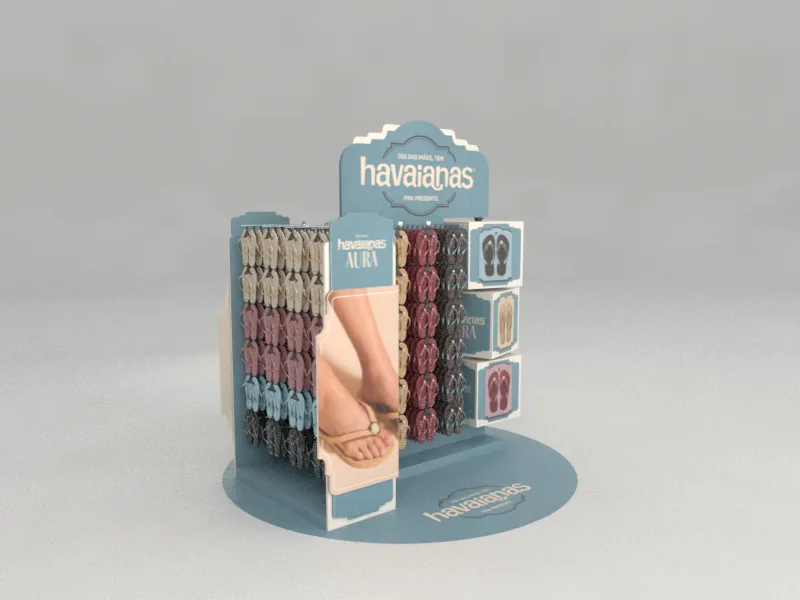
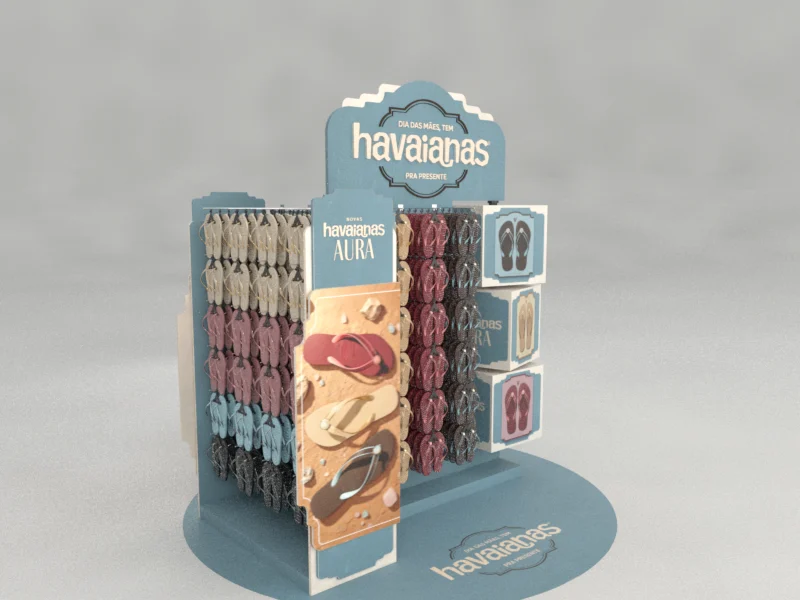
HAV009 R05: ilha nova (frontal e 3/4)

Changed region(s): [[0.2188, 0.12, 0.7812, 1.0]]

diff --git a/havaianas-aura-maes-75lab/index.html b/havaianas-aura-maes-75lab/index.html
@@ -9,7 +9,7 @@
 <meta name="robots" content="noindex">
 <link rel="preconnect" href="https://fonts.googleapis.com"><link rel="preconnect" href="https://fonts.gstatic.com" crossorigin>
 <link href="https://fonts.googleapis.com/css2?family=Big+Shoulders+Display:wght@700;900&family=Space+Grotesk:wght@400;500;600;700&family=Space+Mono:wght@400;700&display=swap" rel="stylesheet">
-<link rel="stylesheet" href="assets/deck.css"><link rel="stylesheet" href="assets/bombril.css"><link rel="stylesheet" href="assets/v2.css"><link rel="stylesheet" href="assets/havaianas.css?v=202611251637">
+<link rel="stylesheet" href="assets/deck.css"><link rel="stylesheet" href="assets/bombril.css"><link rel="stylesheet" href="assets/v2.css"><link rel="stylesheet" href="assets/havaianas.css?v=202611251731">
 </head>
 <body>
 <svg width="0" height="0" style="position:absolute" aria-hidden="true">
@@ -175,10 +175,10 @@
     </div></div></section>
 <section id="ilha" class="tela s-core n" data-tema="escuro" data-titulo="Ilha" data-cap="(03) B2B alimentar">
     <div class="caixa"><div class="gr-core">
-      <div class="txt-core"><span class="eyebrow anima">B2B alimentar · BA08</span><h2 class="anima">Cubos que giram, <span class="t-lime">produto que se pega.</span></h2><p class="lead anima d1">Peça central com os cubos giratórios no recorte, laterais em três camadas com a foto, pares presos direto na peça e adesivo de chão redondo.</p>
-        <div class="abas-b vers anima d2"><button data-aba="0" class="on" data-cursor="Ver"><i>01</i><b>Frontal</b></button><button data-aba="1" class="" data-cursor="Ver"><i>02</i><b>3/4</b></button><button data-aba="2" class="" data-cursor="Ver"><i>03</i><b>Cubos</b></button></div>
-        <dl class="ficha-core anima d3"><dt>Altura</dt><dd>263,5 cm no topo da peça central</dd><dt>Adesivo</dt><dd>chão, Ø 2,68 m</dd><dt>Laterais</dt><dd>3 camadas com a foto do KV</dd><dt>Produto</dt><dd>pares presos na peça, cubos giratórios</dd></dl></div>
-      <div class="paineis foto-core anima dir d1"><div data-painel="0" class="on"><figure class="amplia" data-amplia="assets/img/ilha-az-1.webp" data-legenda="Frontal" data-cursor="Ampliar"><img src="assets/img/ilha-az-1.webp" alt="Frontal" loading="lazy"></figure><p>De frente: peça central com a testeira, lateral com a foto e os cubos.</p></div><div data-painel="1" class=""><figure class="amplia" data-amplia="assets/img/ilha-az-2.webp" data-legenda="3/4" data-cursor="Ampliar"><img src="assets/img/ilha-az-2.webp" alt="3/4" loading="lazy"></figure><p>As laterais em três camadas e o adesivo de chão.</p></div><div data-painel="2" class=""><figure class="amplia" data-amplia="assets/img/ilha-az-3.webp" data-legenda="Cubos" data-cursor="Ampliar"><img src="assets/img/ilha-az-3.webp" alt="Cubos" loading="lazy"></figure><p>Os três cubos giratórios com os cards dos pares.</p></div></div>
+      <div class="txt-core"><span class="eyebrow anima">B2B alimentar · BA08</span><h2 class="anima">Cubos que giram, <span class="t-lime">produto que se pega.</span></h2><p class="lead anima d1">Peça central com a chamada e a borda em relevo, laterais em camadas com as imagens da campanha e o lockup Novas Havaianas Aura, cubos giratórios, pares presos direto na peça e adesivo de chão redondo.</p>
+        <div class="abas-b vers anima d2"><button data-aba="0" class="on" data-cursor="Ver"><i>01</i><b>Frontal</b></button><button data-aba="1" class="" data-cursor="Ver"><i>02</i><b>3/4</b></button><button data-aba="2" class="" data-cursor="Ver"><i>03</i><b>Verso</b></button></div>
+        <dl class="ficha-core anima d3"><dt>Altura</dt><dd>263,5 cm no topo da peça central</dd><dt>Adesivo</dt><dd>chão, Ø 2,68 m</dd><dt>Laterais</dt><dd>em camadas, uma imagem por lado</dd><dt>Produto</dt><dd>pares presos na peça, cubos giratórios</dd></dl></div>
+      <div class="paineis foto-core anima dir d1"><div data-painel="0" class="on"><figure class="amplia" data-amplia="assets/img/ilha-az-1.webp" data-legenda="Frontal" data-cursor="Ampliar"><img src="assets/img/ilha-az-1.webp" alt="Frontal" loading="lazy"></figure><p>De frente: peça central com a chamada em relevo, lateral com a imagem e os cubos.</p></div><div data-painel="1" class=""><figure class="amplia" data-amplia="assets/img/ilha-az-2.webp" data-legenda="3/4" data-cursor="Ampliar"><img src="assets/img/ilha-az-2.webp" alt="3/4" loading="lazy"></figure><p>As gancheiras com os pares e a lateral em camadas.</p></div><div data-painel="2" class=""><figure class="amplia" data-amplia="assets/img/ilha-az-3.webp" data-legenda="Verso" data-cursor="Ampliar"><img src="assets/img/ilha-az-3.webp" alt="Verso" loading="lazy"></figure><p>O verso, com a outra imagem da campanha na lateral.</p></div></div>
     </div></div></section>
 <section id="leves" class="tela s-bniv n" data-tema="escuro" data-titulo="Peças leves" data-cap="(03) B2B alimentar">
   <div class="caixa"><div class="bn-gr">
@@ -225,6 +225,6 @@
 <div id="cursor"></div><div id="anel"><span id="anelTxt"></span></div>
 <div id="gire"><img src="assets/75lab-lime.png" alt="75 LAB"><div class="tel"></div><h3>Gire o celular</h3><p>A apresentação foi desenhada na horizontal. Deitado, o celular mostra a tela inteira.</p><button class="botao mini" id="verAssim">Ver assim mesmo</button></div>
 <script src="assets/deck.js"></script>
-<script src="assets/havaianas.js?v=202611251637"></script>
+<script src="assets/havaianas.js?v=202611251731"></script>
 </body>
 </html>

diff --git a/havaianas-aura-maes-75lab/fonte/montar.py b/havaianas-aura-maes-75lab/fonte/montar.py
@@ -137,9 +137,9 @@ T.append(core('embalagens', '(02) Lojas próprias', 'Embalagens', 'Loja própria
     [('Caixas', 'vermelhas, com ou sem luva'), ('Envelope', '26 x 9 x 46 cm, alça no topo'), ('Sacolas', 'P, M e G, impressa ou com solapa'), ('Solapa', 'papel-cartão, 2 camadas, faca especial')]))
 # ------------------------------------------------------------ 03 · B2B
 T.append(cap('03', 'B2B alimentar', 'No supermercado a Aura disputa atenção: peças que param o carrinho e mostram o par de perto.', ['Ponta de gôndola', 'Ilha com cubos giratórios', 'Peças leves']))
-T.append(core('ilha', '(03) B2B alimentar', 'Ilha', 'B2B alimentar · BA08', 'Cubos que giram, <span class="t-lime">produto que se pega.</span>', 'Peça central com os cubos giratórios no recorte, laterais em três camadas com a foto, pares presos direto na peça e adesivo de chão redondo.',
-    [('Frontal', 'ilha-az-1', 'De frente: peça central com a testeira, lateral com a foto e os cubos.'), ('3/4', 'ilha-az-2', 'As laterais em três camadas e o adesivo de chão.'), ('Cubos', 'ilha-az-3', 'Os três cubos giratórios com os cards dos pares.')],
-    [('Altura', '263,5 cm no topo da peça central'), ('Adesivo', 'chão, Ø 2,68 m'), ('Laterais', '3 camadas com a foto do KV'), ('Produto', 'pares presos na peça, cubos giratórios')]))
+T.append(core('ilha', '(03) B2B alimentar', 'Ilha', 'B2B alimentar · BA08', 'Cubos que giram, <span class="t-lime">produto que se pega.</span>', 'Peça central com a chamada e a borda em relevo, laterais em camadas com as imagens da campanha e o lockup Novas Havaianas Aura, cubos giratórios, pares presos direto na peça e adesivo de chão redondo.',
+    [('Frontal', 'ilha-az-1', 'De frente: peça central com a chamada em relevo, lateral com a imagem e os cubos.'), ('3/4', 'ilha-az-2', 'As gancheiras com os pares e a lateral em camadas.'), ('Verso', 'ilha-az-3', 'O verso, com a outra imagem da campanha na lateral.')],
+    [('Altura', '263,5 cm no topo da peça central'), ('Adesivo', 'chão, Ø 2,68 m'), ('Laterais', 'em camadas, uma imagem por lado'), ('Produto', 'pares presos na peça, cubos giratórios')]))
 T.append(core('ponta', '(03) B2B alimentar', 'Ponta de gôndola', 'B2B alimentar · BA07', 'O racional da campanha, <span class="t-lime">na ponta.</span>', 'Testeira com a chamada e a borda em relevo e laterais em camadas com a imagem da campanha. Charms na frente e Glossy na lateral, presos direto na base de trás.',
     [('Frontal', 'ponta5-1', 'Frontal: testeira com a chamada em relevo e os Charms.'), ('Esquerda', 'ponta5-2', 'A lateral cobre a gancheira.'), ('Direita', 'ponta5-3', 'A lateral direita com a imagem e os Glossy.')],
     [('Largura', '120 cm'), ('Laterais', 'em camadas, com a imagem da campanha'), ('Testeira', 'chamada e borda em relevo'), ('Produto', 'pares presos na base de trás')]))
